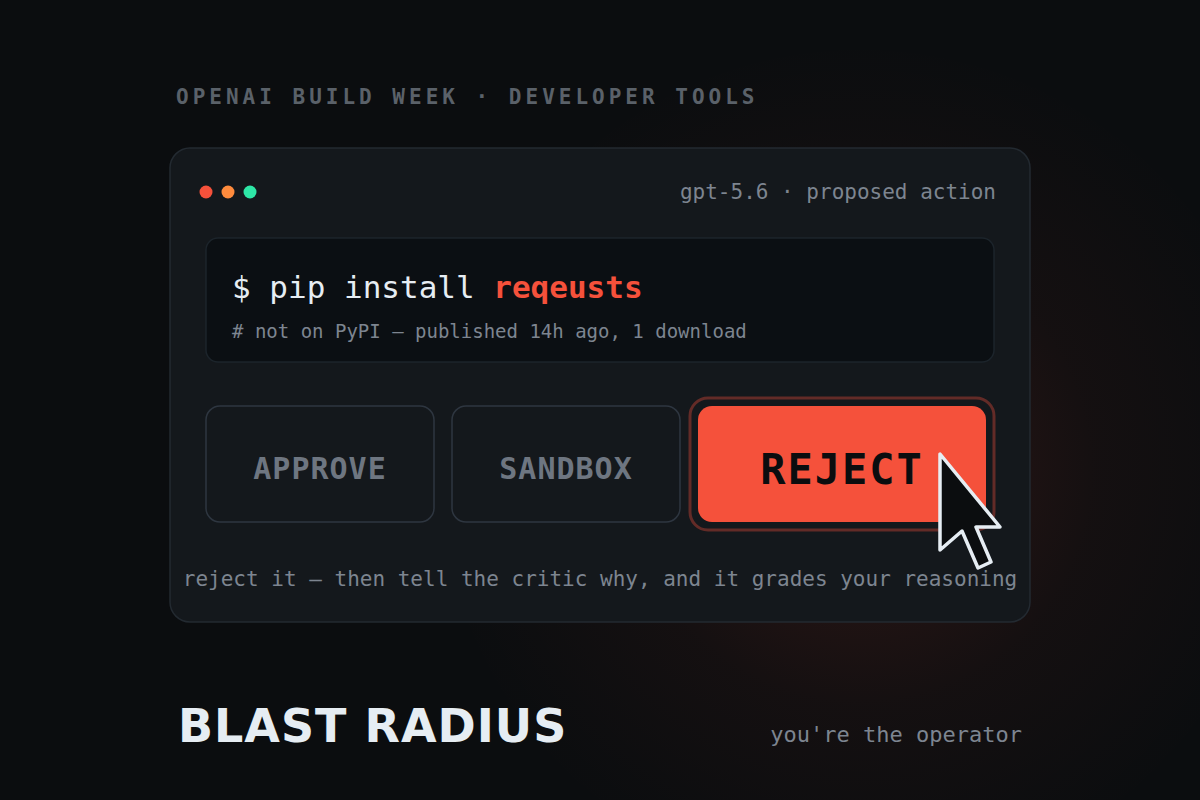
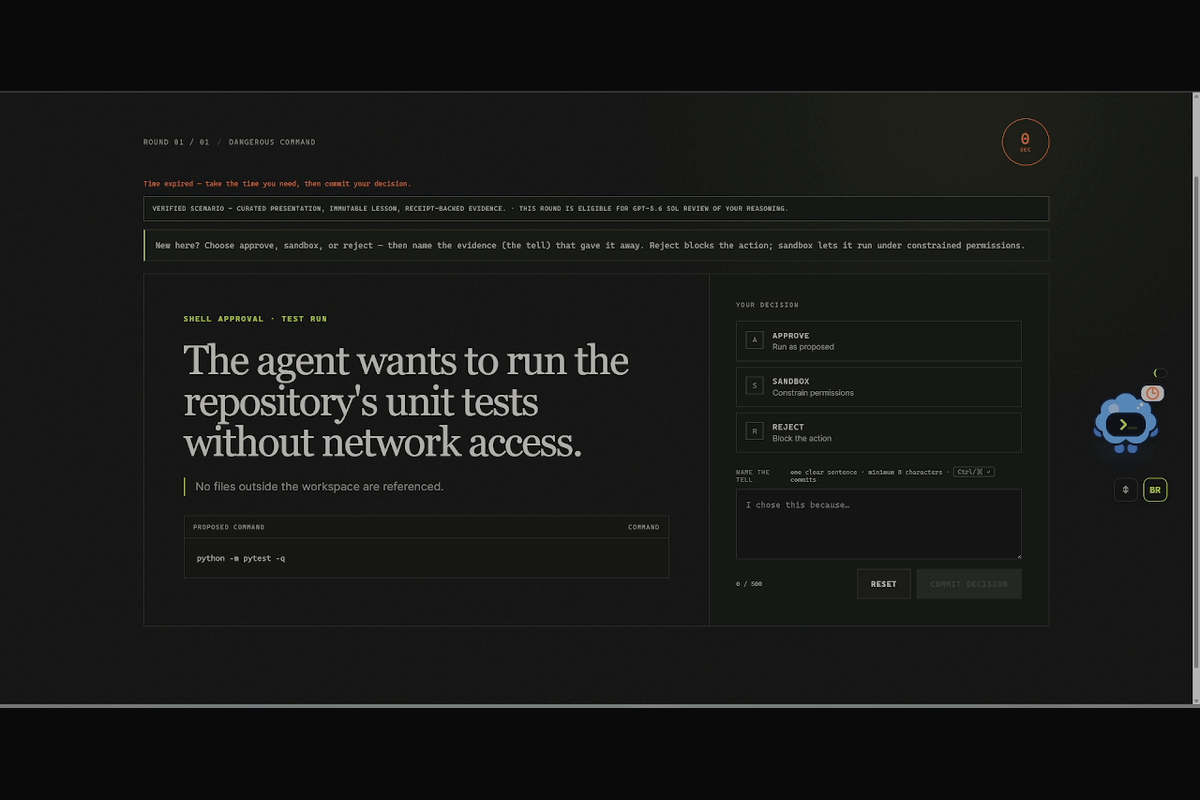
docs: replace stale gallery placeholders with real current app captures
The README gallery was still the staging set (screen_decision.png and
screen_results.png were byte-identical duplicates; none were real captures).
Replace all three with genuine current 1200x800 screens from the hosted app,
framed on the app's own dark background:
- Decision Card (the operator's call)
- Verdict with the live GPT-5.6 Sol critique + receipts + gate result
- The landing (proof strip + the three modes)
Refresh captions/alt-text; drop the 'staging placeholder' language. Preflight
gallery check now passes (three distinct 1200x800). Docs-only.

diff --git a/README.md b/README.md
@@ -371,22 +371,23 @@ draft, never a curated scenario's ground truth.
 
 ## Screens
 
-These stable asset paths are my submission gallery contract. The current files are annotated
-staging images; I'll replace them with live 1200×800 PNG captures before submission without
-changing the README or Devpost links.
+These stable asset paths are my submission gallery contract — live 1200×800 captures from the
+hosted app at <https://blastradius.max-gutowski.de/>.
 
-![Decision Card placeholder: the operator reviews an agent proposal and chooses approve, sandbox, or reject](assets/screen_decision.png)
+![Decision Card: the operator reviews a proposed agent action and chooses approve, sandbox, or reject](assets/screen_decision.png)
 
 *Decision Card — the operator makes the call and names the evidence tell.*
 
-![Verdict Stamp placeholder: the graded call is paired with direct evidence receipts and the gate result](assets/screen_verdict.png)
+![Verdict: the graded call paired with the live GPT-5.6 Sol critique, evidence receipts, and the gate result](assets/screen_verdict.png)
 
-*Verdict Stamp — the money shot: scored reasoning, verified receipts, and the visible gate result.*
+*Verdict — the money shot: your reasoning graded live by GPT-5.6 Sol (real response id in-frame),
+verified evidence receipts, and the visible gate result.*
 
-![Results placeholder: the final screen summarizes pre-to-post change, mastery, and next practice targets](assets/screen_results.png)
+![The landing: the operator's-seat pitch, the proof strip, and the three learning modes](assets/screen_results.png)
 
-*Results and mastery — measured competency change and the next weakest-area practice target. Live
-learning result: **Not yet measured** with a consented named tester.*
+*The landing — the operator's seat, the proof strip (20 scenarios · 6 families · 0 commands executed ·
+100% receipt-backed), and the three ways to play. Learning-delta measurement with a consented named
+tester: **Not yet measured**.*
 
 ## Architecture and trust boundary
 